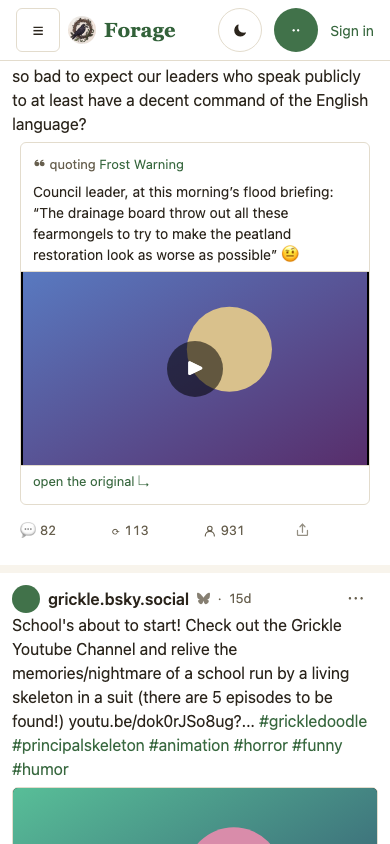
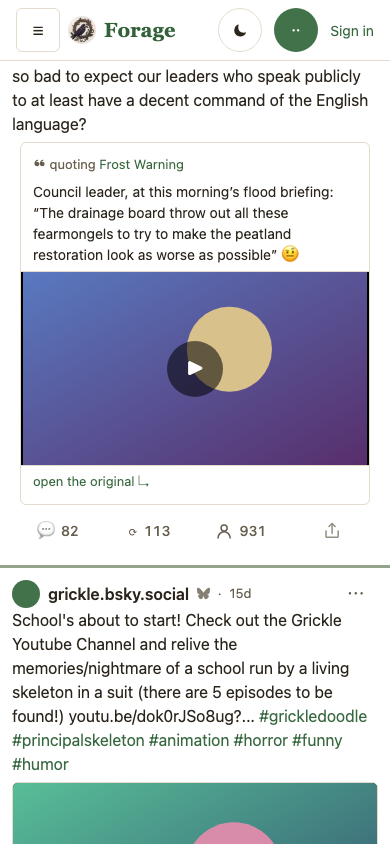
mock: phone feed edge v2 — a stream with an active separator, the action row four across
After the owner's first look at v1: decision 1 is now a 3px brand-tinted
rule between posts in one continuous stream (v1's ground band read as
floating), and decision 6 is new — the four actions centred in equal cells
at one size and weight. Proposed re-captured at forage@7af370b.

Claude-Session: https://claude.ai/code/session_01G2oAeBVwoUj6XLbu1TPZSv

Changed region(s): [[0.0, 0.6161, 1.0, 1.0]]

diff --git a/plans/mocks/phone-feed-edge.html b/plans/mocks/phone-feed-edge.html
@@ -3,10 +3,10 @@
 <head>
 <meta charset="utf-8">
 <meta name="viewport" content="width=device-width,initial-scale=1">
-<title>Forage Phone Feed Edge v1</title>
-<meta name="mock-version" content="1">
+<title>Forage Phone Feed Edge v2</title>
+<meta name="mock-version" content="2">
 <meta name="mock-baseline" content="forage@4280fb7">
-<meta name="mock-proposal" content="forage@5a0bdb8">
+<meta name="mock-proposal" content="forage@7af370b">
 <style>
 :root{--page-bg:#F6F4F0;--page-card:#fff;--page-ink:#26231F;--page-muted:#6B665E;--page-line:#E2DDD4}
 body{margin:0;background:var(--page-bg);color:var(--page-ink);font:15px/1.5 system-ui,-apple-system,"Segoe UI",Roboto,sans-serif}
@@ -29,17 +29,18 @@ pre{background:#f3f1ec;border:1px solid var(--page-line);border-radius:6px;paddi
 <body>
 <main>
 <h1>Forage — the phone feed: posts edge to edge, rows that read as rows</h1>
-<p class="meta">Mock v1 · <b>one proposal</b>, for the phone board only · Current <code>forage@4280fb7</code> (main) beside Proposed <code>forage@5a0bdb8</code> (branch <code>claude/feed-edge</code>) · both captured by <code>scripts/mock-snaps.mjs</code> at 390×844 and 1280×900 over the hermetic <code>lens:mock-board</code> population · <b>default skin</b>, both columns (compare in one skin, MOCKS.md rule 4)</p>
+<p class="meta">Mock v2 · <b>one proposal</b>, for the phone board only · Current <code>forage@4280fb7</code> (main) beside Proposed <code>forage@7af370b</code> (branch <code>claude/feed-edge</code>) · both captured by <code>scripts/mock-snaps.mjs</code> at 390×844 and 1280×900 over the hermetic <code>lens:mock-board</code> population · <b>default skin</b>, both columns (compare in one skin, MOCKS.md rule 4)</p>
 
-<p><b>What this shows.</b> The owner looked at the Samsung captures for board-cards 5c on 2026-09-14 and the finding was not about card size: <i>"I don't like that the cards have the sidewall. When I look at Instagram or Facebook each post on mobile naturally takes up side to side for best visibility … that negative side space makes a poor use of space and less engaging … each post is not quite distinct enough from each other, the top and bottom separation is harder to read possibly bc they are tiles rather than full horizontal rows."</i> Today at 390 wide the posts sit in one white tile (<code>.card</code>, 16px padding, 1px border, 6px corners) inside an 8px page gutter, with a second 8px inset on each row and an 8px-radius frame on the media — the text starts 46px from the screen edge, and a hairline is all that separates one post from the next. <b>Proposed:</b> the column meets the screen edge, each row paints its own surface, an 8px band of ground separates rows, and the media runs the full width. Every other card on the page (the feed header, the rail's cards when they fold in) keeps a gutter. The desktop column is untouched — its frames are here to prove it.</p>
+<p><b>What this shows.</b> The owner looked at the Samsung captures for board-cards 5c on 2026-09-14 and the finding was not about card size: <i>"I don't like that the cards have the sidewall. When I look at Instagram or Facebook each post on mobile naturally takes up side to side for best visibility … that negative side space makes a poor use of space and less engaging … each post is not quite distinct enough from each other, the top and bottom separation is harder to read possibly bc they are tiles rather than full horizontal rows."</i> Today at 390 wide the posts sit in one white tile (<code>.card</code>, 16px padding, 1px border, 6px corners) inside an 8px page gutter, with a second 8px inset on each row and an 8px-radius frame on the media — the text starts 46px from the screen edge, and a hairline is all that separates one post from the next. <b>Proposed:</b> the column meets the screen edge, the posts are one continuous stream, an active 3px rule drawn from the skin's own tokens separates one post from the next, the media runs the full width, and the four actions sit centred in equal cells, one step bigger. <b>v2 after the owner's first look at v1</b> (2026-09-14): v1 separated rows with an 8px band of page ground — <i>"the user is viewing the background as the horizontal line between posts … rather than posts seemingly floating free with background above and below, they are in a stream with an active theme separator"</i> — and the action row read as left-packed and small: <i>"centered a little bit better as 4 across and even slightly bigger and pronounced but consistent."</i> Both are in v2. Every other card on the page (the feed header, the rail's cards when they fold in) keeps a gutter. The desktop column is untouched — its frames are here to prove it.</p>
 
 <h2>Open decisions</h2>
 <div class="tablewrap"><table>
 <tr><th>#</th><th>Decision</th><th>Proposed</th><th>Not taken</th></tr>
-<tr><td>1</td><td>What separates two posts</td><td>An 8px band of page ground (<code>--s2</code>) between white rows — the Instagram / Facebook shape the owner named</td><td>A heavier hairline (2px) inside one continuous white column: cheaper, but it keeps the "one long tile" reading the owner rejected</td></tr>
+<tr><td>1</td><td>What separates two posts</td><td><b>v2:</b> one continuous stream, and between posts a <b>3px rule of the skin's brand tinted into its border</b> (<code>color-mix(in srgb, var(--brand) 45%, var(--border))</code>) — thin, readable, and every skin draws its own line because both tokens are the skin's</td><td>v1's 8px band of page ground (owner: the posts read as floating and the background as the separator); a plain <code>--border</code> hairline (the "one long tile" reading the owner rejected first); a brand-solid rule (loud on the light skins, and it competes with the like's boost colour)</td></tr>
 <tr><td>2</td><td>How far the media bleeds</td><td>To the screen edge on a top-level post (square corners, no side border). A picture inside a <em>quoted</em> post stays inside the quote card's frame — the quote is a card by design (feed-row v16)</td><td>Bleeding the quote's picture too: it would break the quote's own box, which is what tells a reader the words are someone else's</td></tr>
 <tr><td>3</td><td>Text inset on a row</td><td>12px (<code>--s3</code>) — the text starts at x=12 instead of x=46</td><td>8px: too tight against the screen edge for a 16px body face; 16px: spends width the owner asked back</td></tr>
 <tr><td>4</td><td>The other cards</td><td>Keep an 8px gutter (the feed header card, the sign-in / rail cards when they fold into the column) — only the <em>posts'</em> card changes, scoped by <code>.card:has(&gt; .postrow)</code></td><td>Edge to edge for every card: the feed header would read as part of the feed; the sign-in card is a door, not a post</td></tr>
+<tr><td>6</td><td>The action row (replies · reposts · like · share)</td><td><b>v2:</b> the four controls centred in their equal cells ("4 across"), all at <code>--t-sm</code> 14px / weight 500 with a 6px glyph gap, svg glyphs 1.3em, the like arrow 1.15em — one size and weight for all four</td><td>Left-packed in the cells (v1 / today: each control starts at its cell's left edge, so the row reads as uneven on a full-width row); bigger still (16px) crowds a 390 row once counts reach four digits</td></tr>
 <tr><td>5</td><td>Scope</td><td>≤ 480px only. Desktop's 200 / 680 / 300 column (board-cards decision 6) is unchanged, and its frames below are identical</td><td>Tablet (481–860) unchanged in this mock; a follow-up decides whether the band pattern belongs there too</td></tr>
 </table></div>
 
@@ -49,16 +50,16 @@ pre{background:#f3f1ec;border:1px solid var(--page-line);border-radius:6px;paddi
   <div class="stage">
     <div class="device phone"><div class="device-label">Phone · board-lens · CURRENT (forage@4280fb7)</div>
       <img class="shot" src="snaps/phone-feed-edge/board-lens.phone.current.png" alt="The lens board on a phone today: the posts inside one white tile with a page gutter each side, text starting 46px in, a hairline between posts"></div>
-    <div class="device phone"><div class="device-label">Phone · board-lens · PROPOSED (forage@5a0bdb8)</div>
-      <img class="shot" src="snaps/phone-feed-edge/board-lens.phone.proposed.png" alt="The lens board on the branch: the column meets the screen edge, the row is its own white surface, text starts 12px in, a band of ground below the post"></div>
+    <div class="device phone"><div class="device-label">Phone · board-lens · PROPOSED (forage@7af370b)</div>
+      <img class="shot" src="snaps/phone-feed-edge/board-lens.phone.proposed.png" alt="The lens board on the branch: the column meets the screen edge, one continuous white stream, text starts 12px in, the four actions centred and larger, a moss rule below the post"></div>
   </div>
   <div class="stage">
     <div class="device phone"><div class="device-label">Phone · board-lens-media · CURRENT (forage@4280fb7)</div>
       <img class="shot" src="snaps/phone-feed-edge/board-lens-media.phone.current.png" alt="Scrolled to a post with a picture, today: the picture sits inside the tile with rounded corners and a border, 46px from each edge"></div>
-    <div class="device phone"><div class="device-label">Phone · board-lens-media · PROPOSED (forage@5a0bdb8)</div>
-      <img class="shot" src="snaps/phone-feed-edge/board-lens-media.phone.proposed.png" alt="The same scroll on the branch: the picture runs the full width with square edges; a band of ground separates the post above from it"></div>
+    <div class="device phone"><div class="device-label">Phone · board-lens-media · PROPOSED (forage@7af370b)</div>
+      <img class="shot" src="snaps/phone-feed-edge/board-lens-media.phone.proposed.png" alt="The same scroll on the branch: the picture runs the full width with square edges; a 3px brand-tinted rule separates the post above from it; the action row centred four across"></div>
   </div>
-  <p><b>What to read for.</b> Where the text starts (12px vs 46px). Whether the band between rows reads as "next post" at a glance. Whether the picture at full width is what you meant by side to side. The quote card in the first post keeps its frame on purpose (decision 2).</p>
+  <p><b>What to read for.</b> Where the text starts (12px vs 46px). Whether the rule between posts reads as a stream's seam rather than a gap or a hairline, and whether 3px in the brand tint is the right weight (decision 1). Whether the action row now reads as four even, readable controls (decision 6). Whether the picture at full width is what you meant by side to side. The quote card in the first post keeps its frame on purpose (decision 2).</p>
 </section>
 
 <section>
@@ -67,7 +68,7 @@ pre{background:#f3f1ec;border:1px solid var(--page-line);border-radius:6px;paddi
   <div class="stage">
     <div class="device desk"><div class="device-label">Desktop · board-lens · CURRENT (forage@4280fb7)</div>
       <img class="shot" src="snaps/phone-feed-edge/board-lens.desktop.current.png" alt="The lens board at 1280 today"></div>
-    <div class="device desk"><div class="device-label">Desktop · board-lens · PROPOSED (forage@5a0bdb8)</div>
+    <div class="device desk"><div class="device-label">Desktop · board-lens · PROPOSED (forage@7af370b)</div>
       <img class="shot" src="snaps/phone-feed-edge/board-lens.desktop.proposed.png" alt="The lens board at 1280 on the branch — identical: the change is scoped to 480px and under"></div>
   </div>
 </section>
@@ -79,9 +80,15 @@ pre{background:#f3f1ec;border:1px solid var(--page-line);border-radius:6px;paddi
 .main .card:not(:has(&gt; .postrow)) { margin-inline: var(--s2); }   /* every other card keeps a gutter */
 .card:has(&gt; .postrow) { background: transparent; border: 0; border-radius: 0; padding: 0; }
 .card:has(&gt; .postrow) &gt; .postrow { background: var(--card); padding: var(--s3); border-bottom: 0; }
-.card:has(&gt; .postrow) &gt; .postrow + .postrow { margin-top: var(--s2); }        /* the band */
+.card:has(&gt; .postrow) &gt; .postrow + .postrow { margin-top: 0;                   /* the stream's seam */
+  border-top: 3px solid color-mix(in srgb, var(--brand) 45%, var(--border)); }
 .card:has(&gt; .postrow) &gt; .postrow .stage { margin-inline: calc(-1 * var(--s3)); width: auto;
-  border-radius: 0; border-left: 0; border-right: 0; }                          /* the bleed */</pre>
+  border-radius: 0; border-left: 0; border-right: 0; }                          /* the bleed */
+.card:has(&gt; .postrow) &gt; .postrow .actions { justify-items: stretch; }           /* four across */
+.card:has(&gt; .postrow) &gt; .postrow .actions &gt; .cbtn,
+.card:has(&gt; .postrow) &gt; .postrow .actions &gt; .vote { justify-content: center; font-size: var(--t-sm); font-weight: 500; gap: 6px; }
+.card:has(&gt; .postrow) &gt; .postrow .actions .glyph { width: 1.3em; height: 1.3em; }
+.card:has(&gt; .postrow) &gt; .postrow .actions .arrow { font-size: 1.15em; }</pre>
 <p><b>If approved:</b> this lands as a board-cards plan revision (Phase 8: the phone row) with a workflow that holds the frame's claims — the row's left edge at x=0, the text at 12px, the band at 8px, the stage at the viewport's width, the desktop column unmoved — and the 5c/7 device lines close with the owner's words. <b>Still owed after this:</b> the tablet range (decision 5), and a look on the Samsung once it ships, since these frames are Chromium at 390 and the owner's finding came from the phone.</p>
 </main>
 </body>
